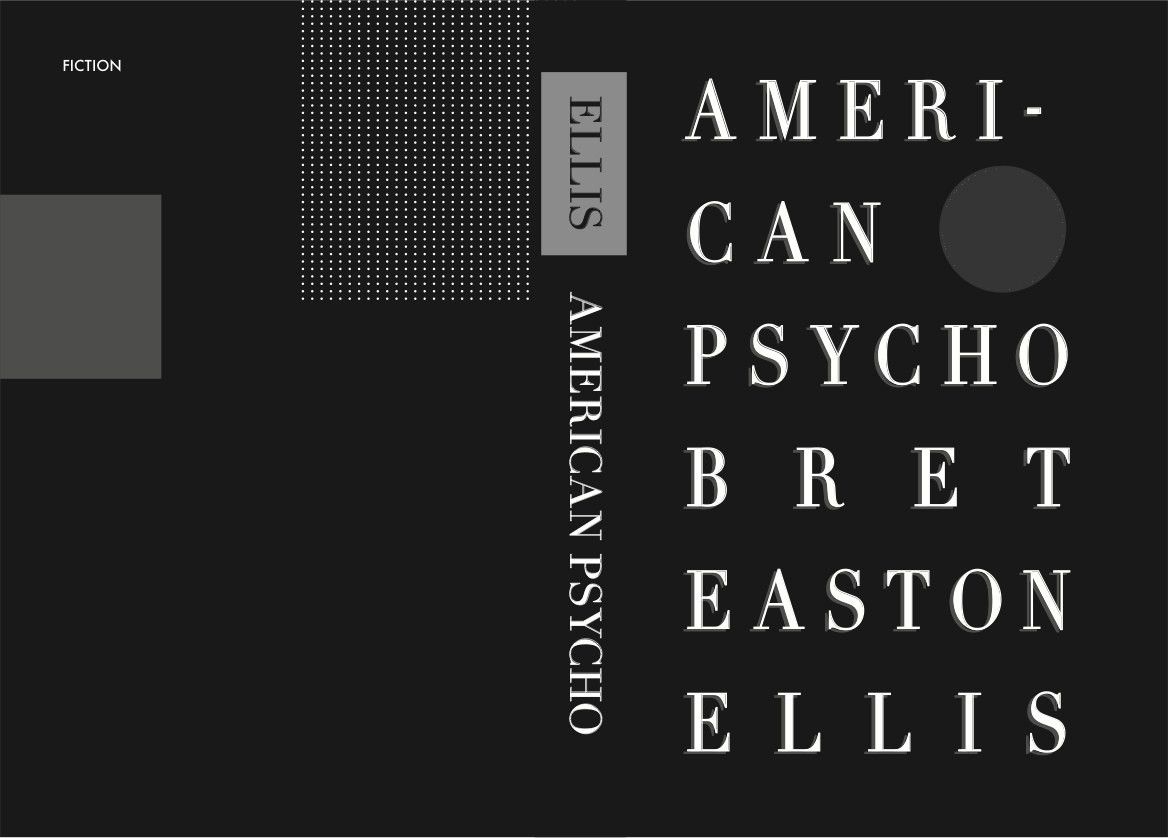
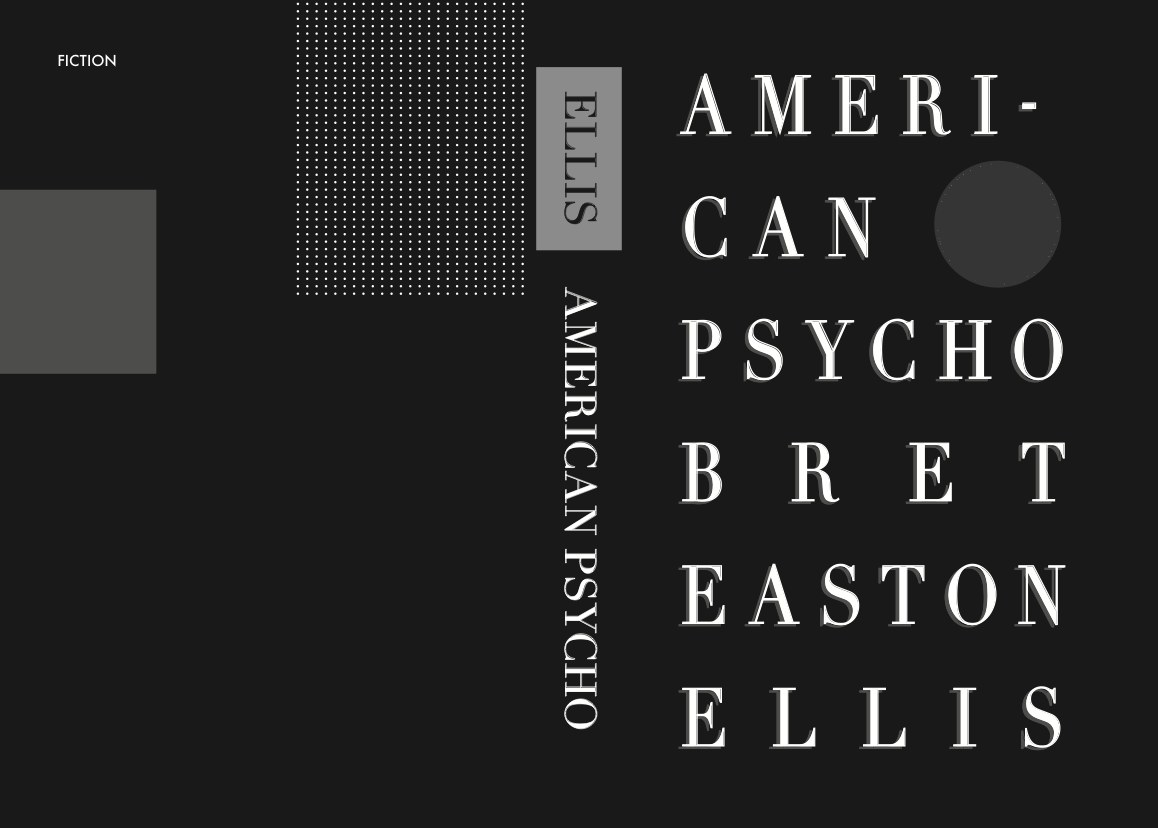
Tighten the flats: jacket height from the plate's proportions, no fold-out, no hairline, and the Road Not Taken captions match its four spreads
Claude-Session: https://claude.ai/code/session_01UYNh2dYVJi5aXLqLS5btY6

diff --git a/_projects/2010-02-01-the-road-not-taken.md b/_projects/2010-02-01-the-road-not-taken.md
@@ -15,11 +15,12 @@ section: studio
 dark: true
 ---
 {%- comment -%}
-  1 the book, 2 Frost's poem as printed, 3 and 4 the first and last of the five
-  recodings, 5 the appendix: every autocomplete capture the book was built from.
+  1 the cover flat from the press file, 2 the colophon and contents,
+  3 two recodings facing each other, 4 the appendix: the autocomplete
+  captures the book was built from.
 {%- endcomment -%}
 {%- comment -%} Split on a pipe: the captions carry commas of their own. {%- endcomment -%}
-{% assign shots = "The book|The poem as Frost wrote it|The first recoding — Thesaurus Roadrunner Notre Dame Taken|The fifth recoding — The Road Not Taken for Granted|The appendix: Google's autocomplete suggestions, captured in 2010" | split: "|" %}
+{% assign shots = "The cover flat: Frost's woods, pixelated, with a search bar|The colophon and the contents: five recodings|Two of the recodings, facing|The appendix: Google's autocomplete suggestions, captured in 2010" | split: "|" %}
 {% for shot in shots %}
 <div class="row pj-shot">
 <img src="{{ page.image_path }}{{ forloop.index }}.jpg" alt="{{ shot }}" loading="lazy" decoding="async">

diff --git a/_projects/2010-07-01-the-story-of-art.md b/_projects/2010-07-01-the-story-of-art.md
@@ -4,7 +4,7 @@ title:  "The Story of Art"
 date:   2010-07-01
 category: book
 image_path: "/images/the-story-of-art/jhuff-the-story-of-art-"
-shots: 5
+shots: 4
 description: "This project is a conflation of a common Internet error and a seminal book of the history of art that relies heavily on images. All the images in E. H. Gombrich's The Story of Art are replaced with 'broken image link' icons that typically appear on outdated web sites."
 plate: "/images/plates/the-story-of-art.webp"
 plate_w: 1100
